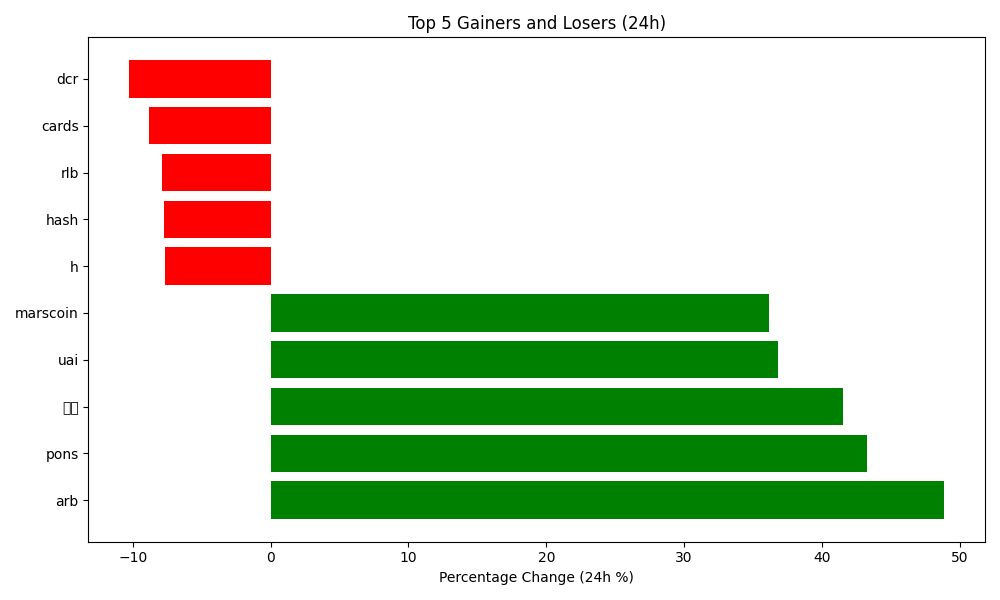
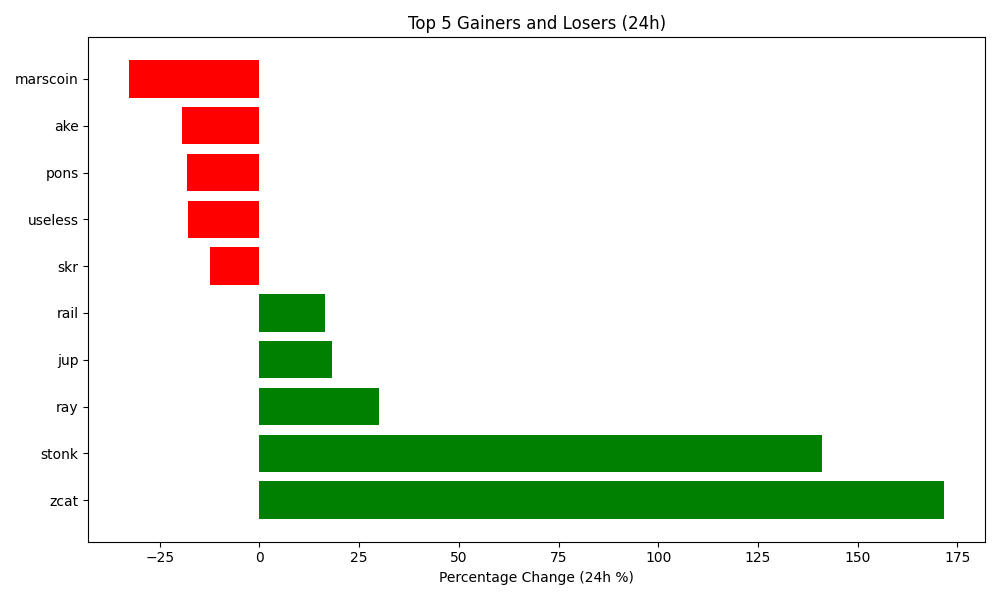
Auto-update crypto data and plot

diff --git a/README.md b/README.md
@@ -4,7 +4,7 @@ Author: Hitesh Agrawal
 This repository automatically tracks the top 5 gaining, top 5 losing, and top 5 highest volume cryptocurrencies in the last 24 hours using the CoinGecko API, Python, Matplotlib, and GitHub Actions updates the below content everyday at midnight.
 
 <!-- START_DYNAMIC_CONTENT -->
-Last updated: 2026-09-06 02:14 UTC
+Last updated: 2026-09-07 02:12 UTC
 
 ![Crypto Movers Plot](crypto_movers_plot.png)
 
@@ -12,33 +12,33 @@ Last updated: 2026-09-06 02:14 UTC
 
 | Rank | Coin | Price Change (24h %) | Volume (USD) | Current Price (USD) |
 | :--: | :--: | :------------------: | :----------: | :-----------------: |
-| 1 | arb | 48.88% | $708,534,047 | $0.1947 |
-| 2 | pons | 43.30% | $205,277,166 | $0.9467 |
-| 3 | 牛来 | 41.54% | $42,052,616 | $0.1194 |
-| 4 | uai | 36.84% | $31,648,352 | $0.6153 |
-| 5 | marscoin | 36.18% | $196,605,558 | $0.2463 |
+| 1 | zcat | 171.71% | $59,180,695 | $0.1650 |
+| 2 | stonk | 141.13% | $136,639,312 | $0.1637 |
+| 3 | ray | 29.99% | $313,152,639 | $1.2300 |
+| 4 | jup | 18.08% | $198,681,301 | $0.2654 |
+| 5 | rail | 16.52% | $884,155 | $2.3400 |
 
 
 **👇 Top 5 Losers (24h)**
 
 | Rank | Coin | Price Change (24h %) | Volume (USD) | Current Price (USD) |
 | :--: | :--: | :------------------: | :----------: | :-----------------: |
-| 1 | dcr | -10.26% | $11,991,465 | $16.1200 |
-| 2 | cards | -8.83% | $4,161,996 | $0.1304 |
-| 3 | rlb | -7.90% | $414,896 | $0.0756 |
-| 4 | hash | -7.70% | $1,947 | $0.0074 |
-| 5 | h | -7.65% | $2,795,203 | $0.0757 |
+| 1 | marscoin | -32.64% | $105,496,720 | $0.1653 |
+| 2 | ake | -19.36% | $47,656,241 | $0.0145 |
+| 3 | pons | -18.11% | $200,535,061 | $0.7818 |
+| 4 | useless | -17.82% | $119,763,090 | $0.2165 |
+| 5 | skr | -12.31% | $10,521,964 | $0.0194 |
 
 
 **💎 Top 5 by Trade Volume (24h)**
 
 | Rank | Coin | Price Change (24h %) | Volume (USD) | Current Price (USD) |
 | :--: | :--: | :------------------: | :----------: | :-----------------: |
-| 1 | usdt | -0.01% | $40,253,250,030 | $1.0000 |
-| 2 | btc | 0.49% | $18,908,960,257 | $79,974.0000 |
-| 3 | usdc | 0.00% | $8,891,371,336 | $1.0000 |
-| 4 | eth | 2.23% | $7,489,304,488 | $2,507.3800 |
-| 5 | sol | 2.27% | $2,510,110,022 | $104.1700 |
+| 1 | usdc | -0.01% | $5,046,402,698,373 | $0.9999 |
+| 2 | usdt | -0.01% | $44,708,599,140 | $0.9999 |
+| 3 | btc | -0.19% | $20,526,383,198 | $79,807.0000 |
+| 4 | eth | -0.32% | $9,803,441,556 | $2,499.1500 |
+| 5 | sol | 0.81% | $3,826,522,238 | $104.9700 |
 
 
 <!-- END_DYNAMIC_CONTENT -->
